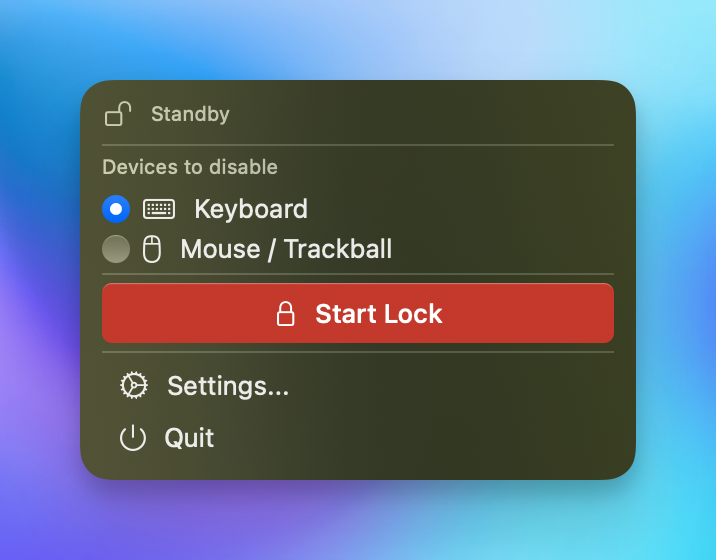
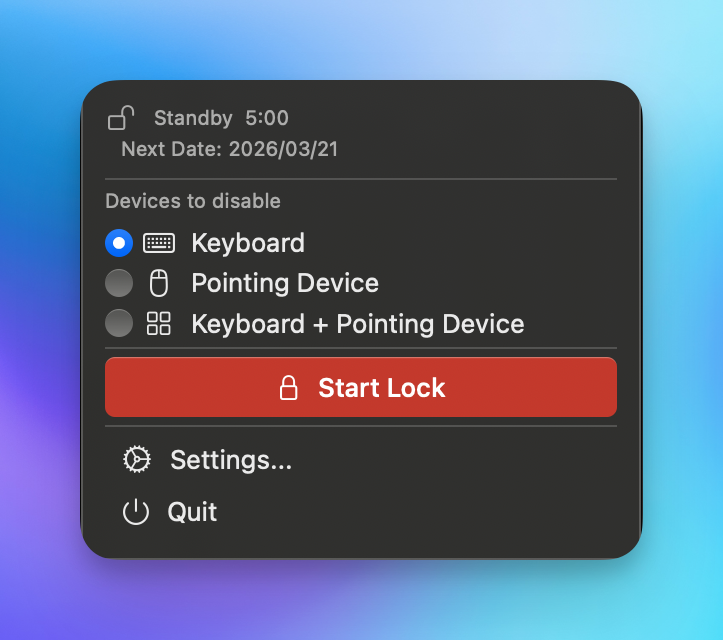
docs: Add v1.0.3 features and update screenshots

Changed region(s): [[0.0922, 0.1214, 0.8911, 0.8804], [0.9218, 0.3946, 1.0, 0.6982], [0.0, 0.3946, 0.0615, 0.6375]]

diff --git a/README-ja.md b/README-ja.md
@@ -31,6 +31,7 @@
 - **キーボード系ロック** - キーボード・テンキーの入力を無効化
 - **ポインティングデバイス系ロック** - マウス・トラックボールの移動・クリック・スクロールを無効化し、カーソル位置を固定
 - **選択式ロック** - どちらかのデバイスグループを選んでロック
+- **同時ロック** - キーボードとポインティングデバイスをまとめてロック — まとめてお掃除する時に便利
 
 ### アンロック
 
@@ -65,6 +66,10 @@
 | 한국어 | ko |
 | 简体中文 | zh-Hans |
 | 繁體中文 | zh-Hant |
+
+### スケジュール通知
+
+- **お掃除リマインダー** - 指定した日数が経過すると通知バナーでお知らせ — キーボード・マウスのお掃除を忘れずに
 
 ### その他
 

diff --git a/README.md b/README.md
@@ -31,6 +31,7 @@ Lock your keyboard and mouse with a single click, and unlock instantly with a cu
 - **Keyboard Group Lock** - Disables keyboard and keypad input
 - **Pointing Device Group Lock** - Disables mouse and trackball movement, clicks, and scrolling; pins cursor position
 - **Selective Locking** - Choose which device group to lock
+- **Simultaneous Lock** - Lock keyboard and pointing device at the same time — perfect for cleaning them all at once
 
 ### Unlocking
 
@@ -65,6 +66,10 @@ Supports 7 languages:
 | 한국어 | ko |
 | 简体中文 | zh-Hans |
 | 繁體中文 | zh-Hant |
+
+### Schedule Notification
+
+- **Cleaning Reminder** - Get notified via notification banner when a specified number of days have passed — a reminder to clean your keyboard and mouse
 
 ### Other
 
